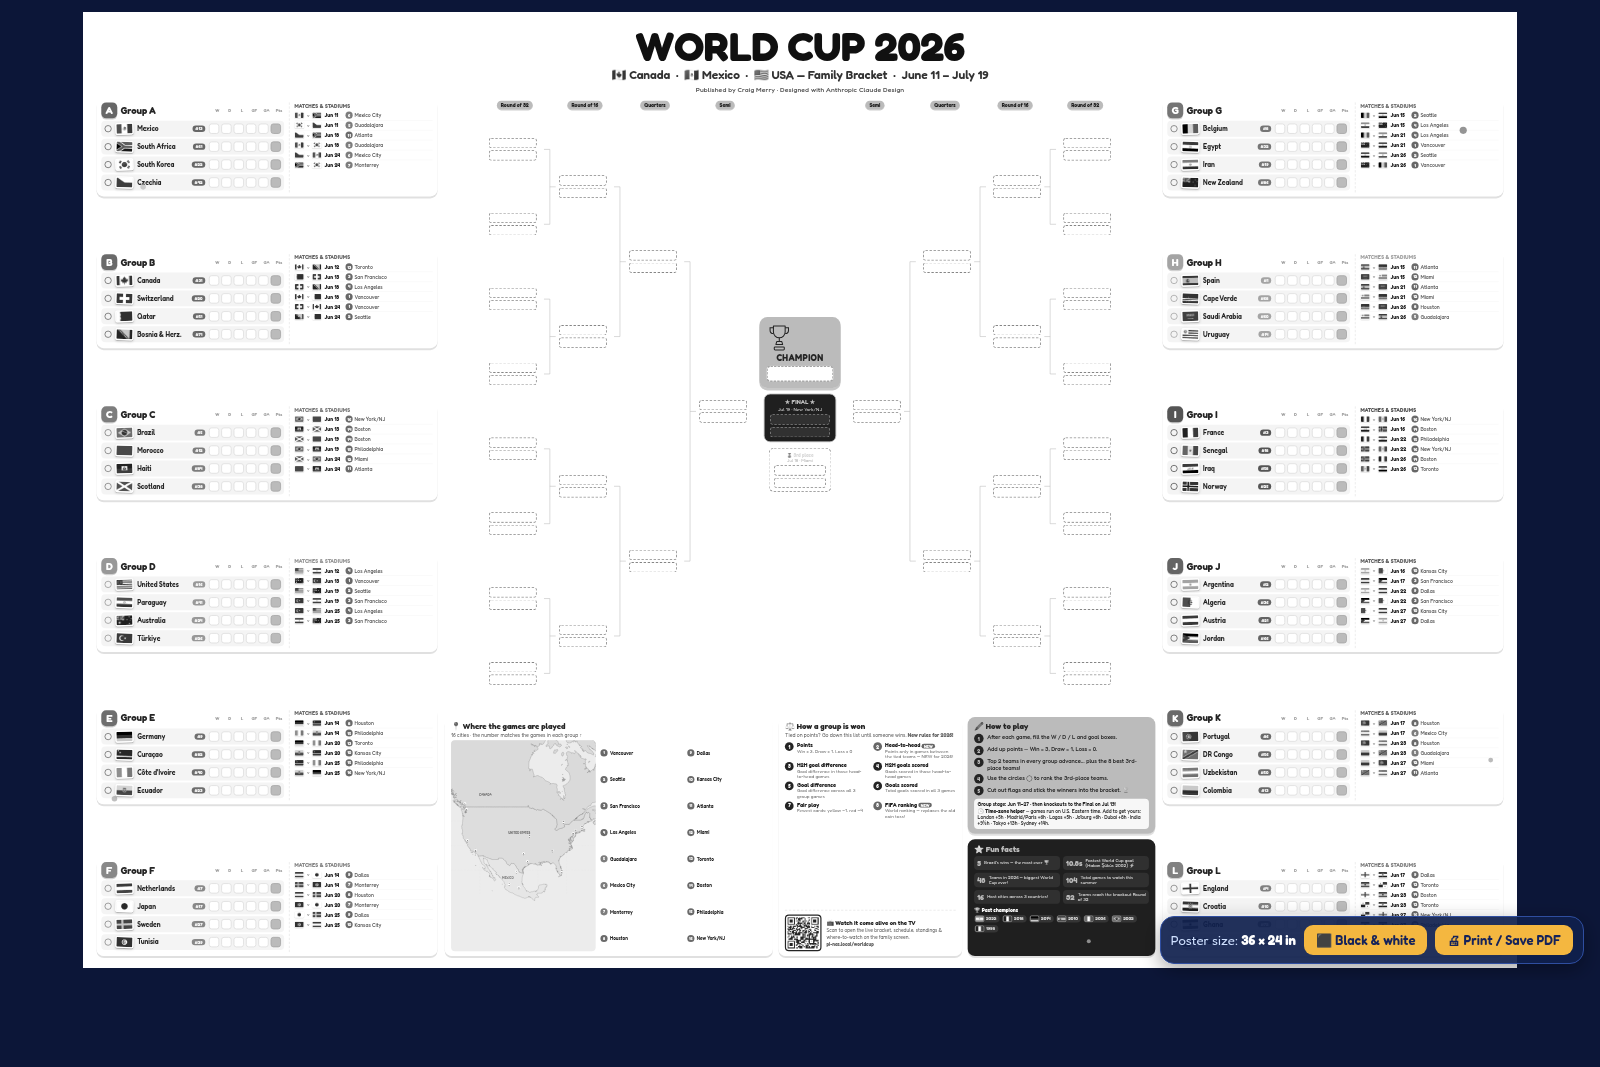
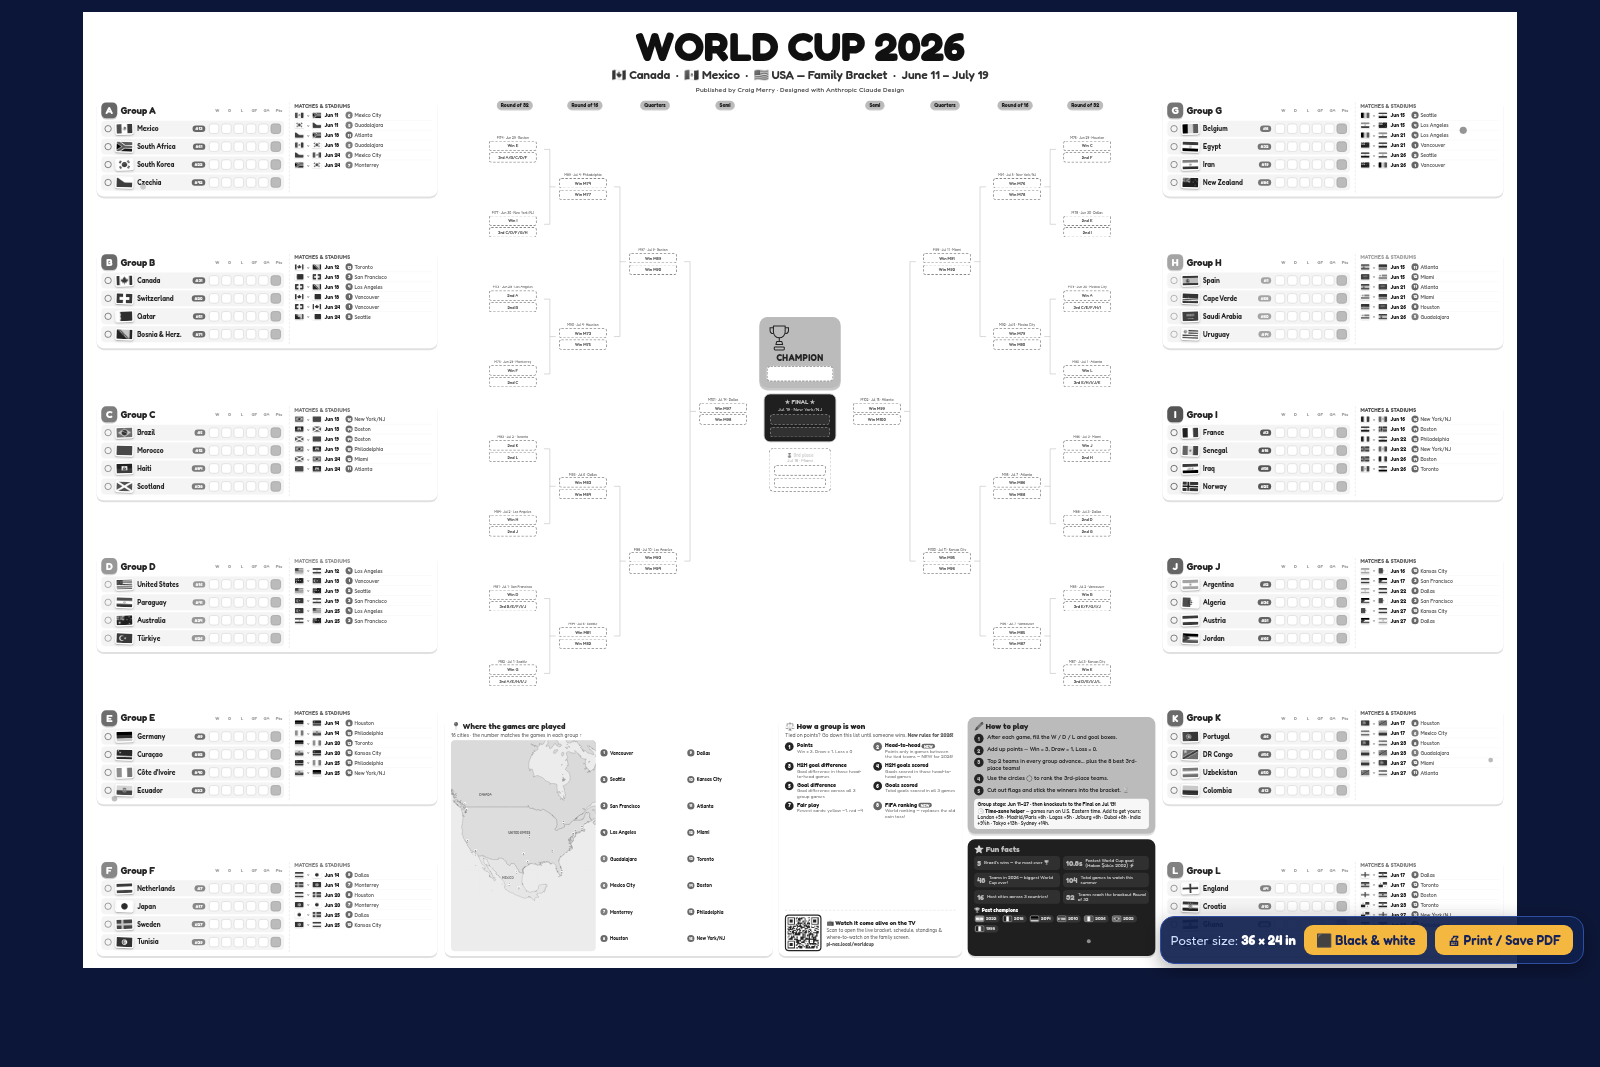
Show knockout feeders + match info on the printed bracket
The poster and print-at-home bracket slots now display each match's
feeders (Winner A / Runner-up B / 3rd-place / Winner of Match 74) plus
the match number, date and host city — matching the interactive Hub and
a printed wall chart. Black & white mode darkens the feeder text too.

diff --git a/worldcup/poster-parts.jsx b/worldcup/poster-parts.jsx
@@ -85,17 +85,26 @@ function GroupCard({ letter }) {
 }
 
 /* ---------- KNOCKOUT BRACKET ---------- */
-function Slot() {
-  return <div style={{ height: 26, border: "2px dashed #6f86c9", borderRadius: 6, background: "rgba(255,255,255,.08)" }}></div>;
-}
-function Match() {
+function Slot({ label }) {
   return (
-    <div style={{ width: 132, display: "flex", flexDirection: "column", gap: 5, background: "rgba(255,255,255,.06)", padding: 5, borderRadius: 9, border: "1px solid rgba(255,255,255,.12)" }}>
-      <Slot /><Slot />
+    <div style={{ height: 26, border: "2px dashed #6f86c9", borderRadius: 6, background: "rgba(255,255,255,.08)", display: "flex", alignItems: "center", justifyContent: "center", overflow: "hidden" }}>
+      {label && <span style={{ fontSize: 10.5, color: window.BW ? "#555" : "#9fb3e6", fontWeight: 600, whiteSpace: "nowrap" }}>{label}</span>}
     </div>
   );
 }
-function RoundColumn({ n, header, headerColor, alignRight }) {
+function Match({ side, round, idx }) {
+  const WC = window.WC;
+  const lay = ((WC.KO_LAYOUT || {})[side] || {})[round] || [];
+  const m = (WC.KO_M || {})[lay[idx]];
+  return (
+    <div style={{ width: 132, display: "flex", flexDirection: "column", gap: 3, background: "rgba(255,255,255,.06)", padding: 5, borderRadius: 9, border: "1px solid rgba(255,255,255,.12)" }}>
+      {m && <div style={{ fontSize: 8.5, color: window.BW ? "#555" : "#8fa0d0", textAlign: "center", lineHeight: 1, whiteSpace: "nowrap", overflow: "hidden" }}>M{m.no} · {m.date} · {m.city}</div>}
+      <Slot label={m ? WC.feeder(m.top, true) : null} />
+      <Slot label={m ? WC.feeder(m.bottom, true) : null} />
+    </div>
+  );
+}
+function RoundColumn({ n, header, headerColor, alignRight, side, round }) {
   const acc = (window.TWEAKS || {}).accent || GOLD;
   const hc = headerColor || acc;
   return (
@@ -104,7 +113,7 @@ function RoundColumn({ n, header, headerColor, alignRight }) {
         <span style={{ background: hc, color: NAVY2, fontWeight: 700, fontSize: 13, padding: "3px 10px", borderRadius: 20, whiteSpace: "nowrap", boxShadow: "0 2px 0 rgba(0,0,0,.2)" }}>{header}</span>
       </div>
       <div style={{ flex: 1, display: "flex", flexDirection: "column", justifyContent: "space-around", alignItems: alignRight ? "flex-end" : "flex-start" }}>
-        {Array.from({ length: n }).map((_, i) => <Match key={i} />)}
+        {Array.from({ length: n }).map((_, i) => <Match key={i} side={side} round={round} idx={i} />)}
       </div>
     </div>
   );
@@ -162,21 +171,21 @@ function ChampionFinal() {
 function Bracket() {
   return (
     <div style={{ display: "flex", justifyContent: "center", alignItems: "stretch", gap: 2, height: "100%" }}>
-      <RoundColumn n={8} header="Round of 32" />
+      <RoundColumn n={8} header="Round of 32" side="L" round="R32" />
       <Connector leaves={8} dir="lr" />
-      <RoundColumn n={4} header="Round of 16" />
+      <RoundColumn n={4} header="Round of 16" side="L" round="R16" />
       <Connector leaves={4} dir="lr" />
-      <RoundColumn n={2} header="Quarters" />
+      <RoundColumn n={2} header="Quarters" side="L" round="QF" />
       <Connector leaves={2} dir="lr" />
-      <RoundColumn n={1} header="Semi" />
+      <RoundColumn n={1} header="Semi" side="L" round="SF" />
       <ChampionFinal />
-      <RoundColumn n={1} header="Semi" alignRight />
+      <RoundColumn n={1} header="Semi" alignRight side="R" round="SF" />
       <Connector leaves={2} dir="rl" />
-      <RoundColumn n={2} header="Quarters" alignRight />
+      <RoundColumn n={2} header="Quarters" alignRight side="R" round="QF" />
       <Connector leaves={4} dir="rl" />
-      <RoundColumn n={4} header="Round of 16" alignRight />
+      <RoundColumn n={4} header="Round of 16" alignRight side="R" round="R16" />
       <Connector leaves={8} dir="rl" />
-      <RoundColumn n={8} header="Round of 32" alignRight />
+      <RoundColumn n={8} header="Round of 32" alignRight side="R" round="R32" />
     </div>
   );
 }

diff --git a/worldcup/Bracket - Print at Home.html b/worldcup/Bracket - Print at Home.html
@@ -124,23 +124,23 @@
     const right = side === "right";
     const cols = right ? (
       <>
-        <RoundColumn n={1} header="Semi-final" alignRight />
+        <RoundColumn n={1} header="Semi-final" alignRight side="R" round="SF" />
         <Connector leaves={2} dir="rl" />
-        <RoundColumn n={2} header="Quarters" alignRight />
+        <RoundColumn n={2} header="Quarters" alignRight side="R" round="QF" />
         <Connector leaves={4} dir="rl" />
-        <RoundColumn n={4} header="Round of 16" alignRight />
+        <RoundColumn n={4} header="Round of 16" alignRight side="R" round="R16" />
         <Connector leaves={8} dir="rl" />
-        <RoundColumn n={8} header="Round of 32" alignRight />
+        <RoundColumn n={8} header="Round of 32" alignRight side="R" round="R32" />
       </>
     ) : (
       <>
-        <RoundColumn n={8} header="Round of 32" />
+        <RoundColumn n={8} header="Round of 32" side="L" round="R32" />
         <Connector leaves={8} dir="lr" />
-        <RoundColumn n={4} header="Round of 16" />
+        <RoundColumn n={4} header="Round of 16" side="L" round="R16" />
         <Connector leaves={4} dir="lr" />
-        <RoundColumn n={2} header="Quarters" />
+        <RoundColumn n={2} header="Quarters" side="L" round="QF" />
         <Connector leaves={2} dir="lr" />
-        <RoundColumn n={1} header="Semi-final" />
+        <RoundColumn n={1} header="Semi-final" side="L" round="SF" />
       </>
     );
     return (
